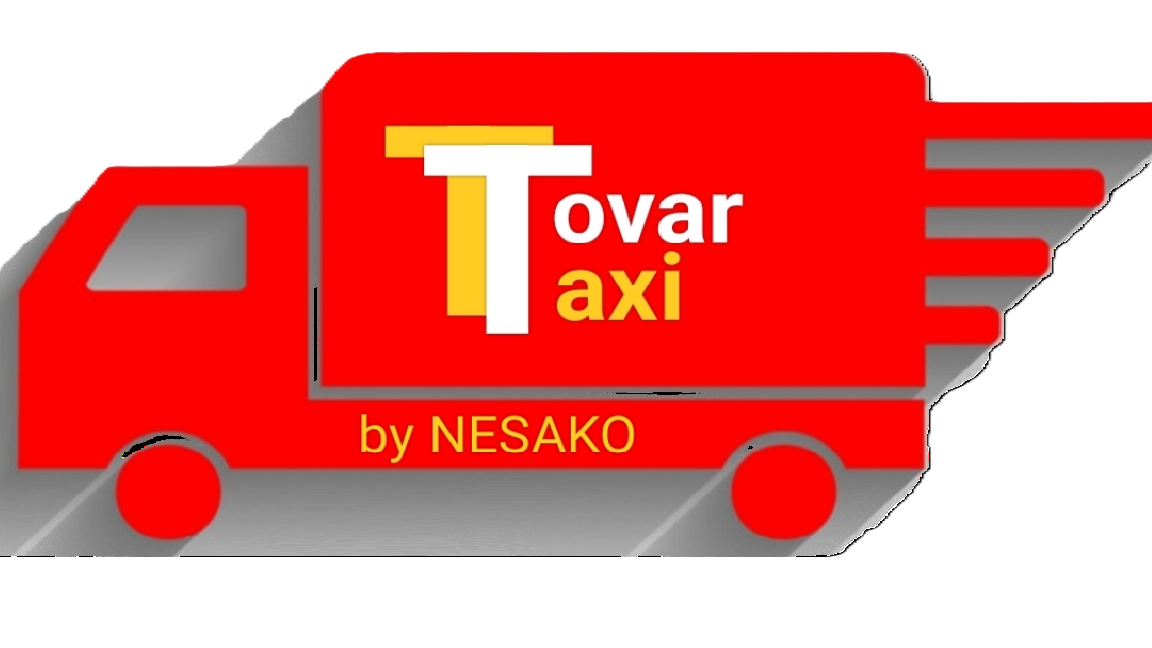
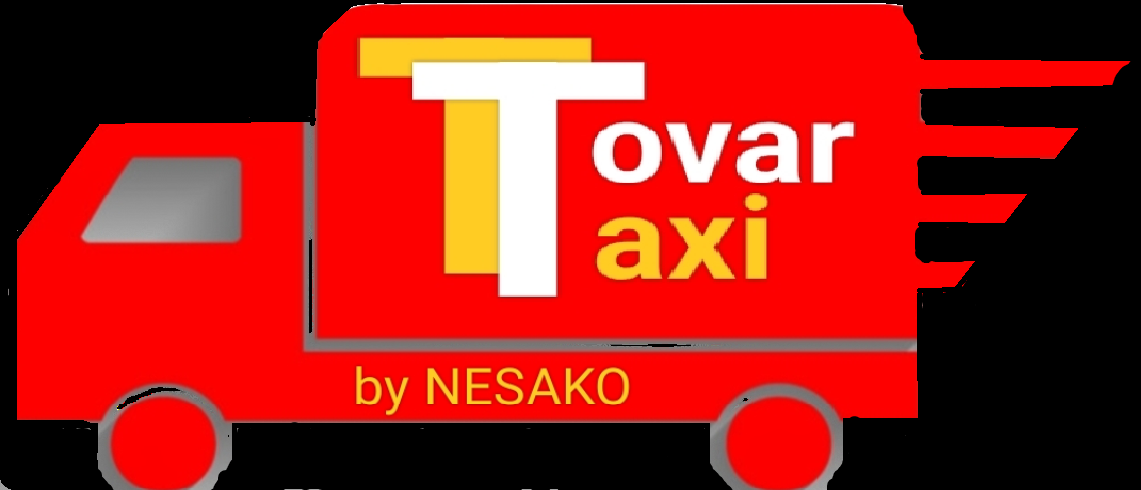
Dodao cache-busting za novu TTaxi.png sliku

diff --git a/templates/transport/home.html b/templates/transport/home.html
@@ -49,7 +49,7 @@
     <nav class="navbar navbar-expand-lg navbar-dark bg-dark">
         <div class="container">
             <a class="navbar-brand" href="{% url 'home' %}">
-                <img src="{% static 'images/TTaxi.png' %}" alt="Tovar Taxi">
+                <img src="{% static 'images/TTaxi.png' %}?v=2" alt="Tovar Taxi">
             </a>
             <div class="navbar-nav ms-auto">
                 {% if user.is_authenticated %}
